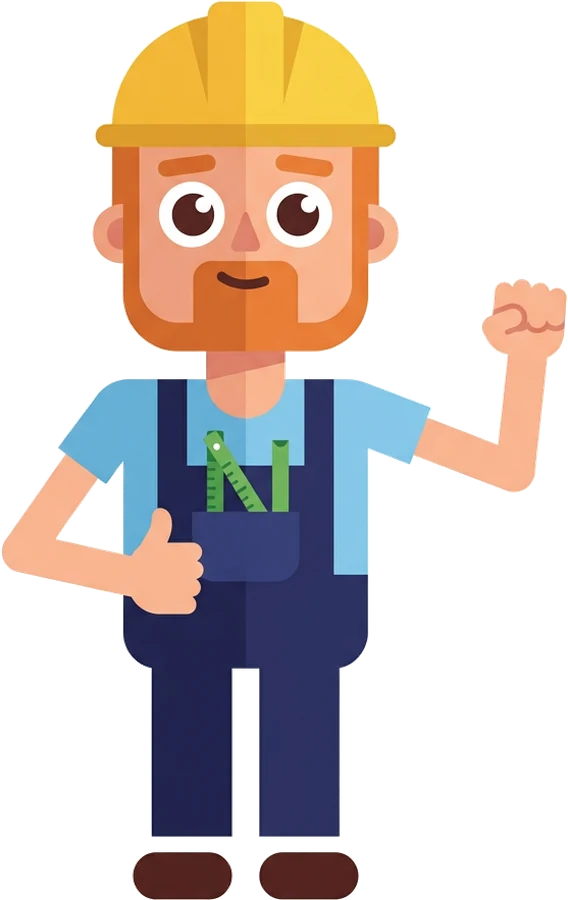
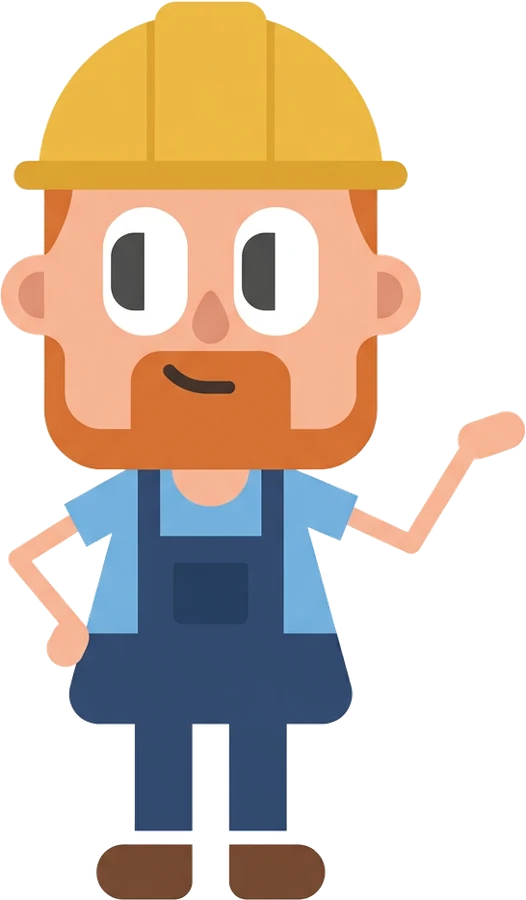
Redraw the cast closer to the reference: block heads, D-shaped pupils, no necks

diff --git a/index.html b/index.html
@@ -442,27 +442,27 @@
             <path class="ch-spark ch-spark--2" d="M576 300l2.5 6.5 6.5 2.5-6.5 2.5-2.5 6.5-2.5-6.5-6.5-2.5 6.5-2.5z" fill="#80c34a"/>
             <path class="ch-spark ch-spark--3" d="M180 30l2 5 5 2-5 2-2 5-2-5-5-2 5-2z" fill="#14a3a3" fill-opacity=".7"/>
             <path d="M40 399H560" stroke="#d5e0ec" stroke-width="2"/>
-            <ellipse class="ch-fit ch-fit--1" cx="258" cy="397" rx="48" ry="8" fill="#143c66" fill-opacity=".14"/>
-            <ellipse class="ch-fit ch-fit--2" cx="258" cy="397" rx="53" ry="8" fill="#143c66" fill-opacity=".14"/>
-            <ellipse class="ch-fit ch-fit--3" cx="258" cy="397" rx="56" ry="8" fill="#143c66" fill-opacity=".14"/>
-            <ellipse class="ch-fit ch-fit--4" cx="258" cy="397" rx="52" ry="8" fill="#143c66" fill-opacity=".14"/>
+            <ellipse class="ch-fit ch-fit--1" cx="258" cy="397" rx="47" ry="8" fill="#143c66" fill-opacity=".14"/>
+            <ellipse class="ch-fit ch-fit--2" cx="258" cy="397" rx="54" ry="8" fill="#143c66" fill-opacity=".14"/>
+            <ellipse class="ch-fit ch-fit--3" cx="258" cy="397" rx="55" ry="8" fill="#143c66" fill-opacity=".14"/>
+            <ellipse class="ch-fit ch-fit--4" cx="258" cy="397" rx="53" ry="8" fill="#143c66" fill-opacity=".14"/>
 
             <g class="ch-hop">
-                <!-- healthcare: a doctor with a big afro, a white coat over teal scrubs and a stethoscope -->
+                <!-- healthcare: a doctor with a round afro, a white coat over teal scrubs and a stethoscope -->
                 <g class="ch-fit ch-fit--1">
-                  <image href="images/tbyb-healthcare.webp?v=41dc0ae0" x="148.7" y="68" width="219.3" height="330"/>
+                  <image href="images/tbyb-healthcare.webp?v=4ff538bc" x="160.8" y="68" width="195.8" height="330"/>
                 </g>
-                <!-- a contractor: yellow hard hat, ginger beard, navy overalls, a folding ruler, a thumbs-up -->
+                <!-- a contractor: yellow hard hat, ginger beard, navy overalls, a hand on his hip -->
                 <g class="ch-fit ch-fit--2">
-                  <image href="images/tbyb-contractor.webp?v=d99b9e7e" x="168.2" y="68" width="208.3" height="330"/>
+                  <image href="images/tbyb-contractor.webp?v=fcd1177d" x="181.0" y="68" width="192.9" height="330"/>
                 </g>
                 <!-- a tech company: a capybara in round glasses and a navy code hoodie, green headphones, a laptop -->
                 <g class="ch-fit ch-fit--3">
-                  <image href="images/tbyb-tech.webp?v=788f120f" x="158.3" y="68" width="248.6" height="330"/>
+                  <image href="images/tbyb-tech.webp?v=9061e7fa" x="166.0" y="68" width="214.9" height="330"/>
                 </g>
-                <!-- a law firm: a silver bob, a navy suit, a scales pin and a green folder -->
+                <!-- a law firm: a silver bob, a navy suit, a gold pin and a green folder -->
                 <g class="ch-fit ch-fit--4">
-                  <image href="images/tbyb-law-firm.webp?v=b03e3253" x="174.8" y="68" width="194.0" height="330"/>
+                  <image href="images/tbyb-law-firm.webp?v=99265782" x="163.8" y="68" width="224.4" height="330"/>
                 </g>
             </g>
 

diff --git a/src/body.html b/src/body.html
@@ -329,27 +329,27 @@
             <path class="ch-spark ch-spark--2" d="M576 300l2.5 6.5 6.5 2.5-6.5 2.5-2.5 6.5-2.5-6.5-6.5-2.5 6.5-2.5z" fill="#80c34a"/>
             <path class="ch-spark ch-spark--3" d="M180 30l2 5 5 2-5 2-2 5-2-5-5-2 5-2z" fill="#14a3a3" fill-opacity=".7"/>
             <path d="M40 399H560" stroke="#d5e0ec" stroke-width="2"/>
-            <ellipse class="ch-fit ch-fit--1" cx="258" cy="397" rx="48" ry="8" fill="#143c66" fill-opacity=".14"/>
-            <ellipse class="ch-fit ch-fit--2" cx="258" cy="397" rx="53" ry="8" fill="#143c66" fill-opacity=".14"/>
-            <ellipse class="ch-fit ch-fit--3" cx="258" cy="397" rx="56" ry="8" fill="#143c66" fill-opacity=".14"/>
-            <ellipse class="ch-fit ch-fit--4" cx="258" cy="397" rx="52" ry="8" fill="#143c66" fill-opacity=".14"/>
+            <ellipse class="ch-fit ch-fit--1" cx="258" cy="397" rx="47" ry="8" fill="#143c66" fill-opacity=".14"/>
+            <ellipse class="ch-fit ch-fit--2" cx="258" cy="397" rx="54" ry="8" fill="#143c66" fill-opacity=".14"/>
+            <ellipse class="ch-fit ch-fit--3" cx="258" cy="397" rx="55" ry="8" fill="#143c66" fill-opacity=".14"/>
+            <ellipse class="ch-fit ch-fit--4" cx="258" cy="397" rx="53" ry="8" fill="#143c66" fill-opacity=".14"/>
 
             <g class="ch-hop">
-                <!-- healthcare: a doctor with a big afro, a white coat over teal scrubs and a stethoscope -->
+                <!-- healthcare: a doctor with a round afro, a white coat over teal scrubs and a stethoscope -->
                 <g class="ch-fit ch-fit--1">
-                  <image href="__ASSET_TBYB_HEALTH__" x="148.7" y="68" width="219.3" height="330"/>
+                  <image href="__ASSET_TBYB_HEALTH__" x="160.8" y="68" width="195.8" height="330"/>
                 </g>
-                <!-- a contractor: yellow hard hat, ginger beard, navy overalls, a folding ruler, a thumbs-up -->
+                <!-- a contractor: yellow hard hat, ginger beard, navy overalls, a hand on his hip -->
                 <g class="ch-fit ch-fit--2">
-                  <image href="__ASSET_TBYB_CONTRACT__" x="168.2" y="68" width="208.3" height="330"/>
+                  <image href="__ASSET_TBYB_CONTRACT__" x="181.0" y="68" width="192.9" height="330"/>
                 </g>
                 <!-- a tech company: a capybara in round glasses and a navy code hoodie, green headphones, a laptop -->
                 <g class="ch-fit ch-fit--3">
-                  <image href="__ASSET_TBYB_TECH__" x="158.3" y="68" width="248.6" height="330"/>
+                  <image href="__ASSET_TBYB_TECH__" x="166.0" y="68" width="214.9" height="330"/>
                 </g>
-                <!-- a law firm: a silver bob, a navy suit, a scales pin and a green folder -->
+                <!-- a law firm: a silver bob, a navy suit, a gold pin and a green folder -->
                 <g class="ch-fit ch-fit--4">
-                  <image href="__ASSET_TBYB_LAW__" x="174.8" y="68" width="194.0" height="330"/>
+                  <image href="__ASSET_TBYB_LAW__" x="163.8" y="68" width="224.4" height="330"/>
                 </g>
             </g>
 
